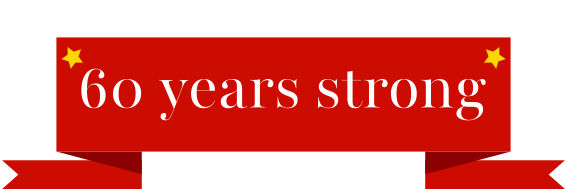
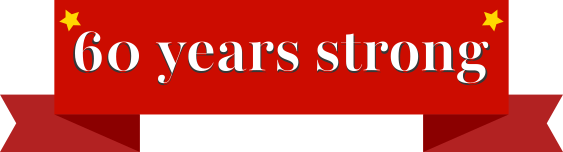
update ribbon, fix about page, tel link

diff --git a/pages/about.tsx b/pages/about.tsx
@@ -24,10 +24,10 @@ export default function About() {
 
         <section className={styles.aboutItem}>
           <h2>History</h2>
-            <p className={styles.abtPara}>Our company was founded in <strong>1966</strong>, and continues to remain a family business. We do what we can to support all who work here so that their tenure is long. This has built a conscientious team that takes great pride in their work.</p>
+            <p className={styles.abtPara}>Our company was founded in <strong>1966</strong> here in south Florida, and continues to remain a family business. We do what we can to support all who work here so that their tenure is long. This has built a conscientious team that takes great pride in their work.</p>
         </section>
         </div>
-        <p style={{marginTop: '1rem'}}><GiPalmTree style={{verticalAlign:'bottom'}} size={25}/> Proud sponsor of an <a className={styles.pLink} href="https://adoptadune.com/" target="_blank">Adopt a Dune</a> sand dune</p>
+        <p style={{marginTop: '1rem'}}><GiPalmTree style={{verticalAlign:'bottom'}} size={25}/> Proud sponsor of an <a className={styles.pLink} href="https://adoptadune.com/" target="_blank">Adopt a Dune</a> sand dune!</p>
       </main>    
     </>
   )

diff --git a/components/footer.js b/components/footer.js
@@ -22,7 +22,7 @@ export default function Footer() {
 
         <div>
             <p style={{marginBottom:'0.25rem'}}><FaMapPin/> 321 E. Commercial Blvd<br/>Fort Lauderdale, FL 33334</p>
-            <p style={{marginBottom: '0'}}><FaPhoneVolume/> (954) 938-1881 <span className={styles.footerNavSpacer}>|</span> &copy; {new Date().getFullYear()}</p>
+            <p style={{marginBottom: '0'}}><FaPhoneVolume/> <a href="tel:+19549381881" title='Mobile users - Click to call!'>(954) 938-1881</a> <span className={styles.footerNavSpacer}>|</span> &copy; {new Date().getFullYear()}</p>
         </div>
 
         <div>
